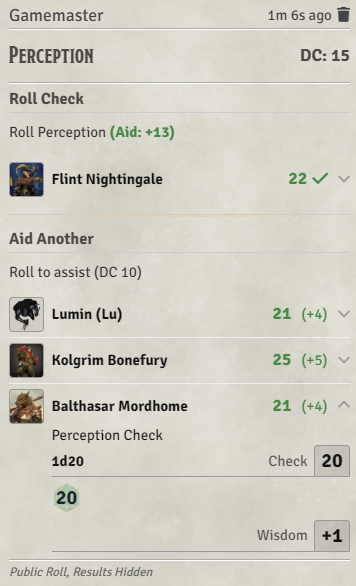
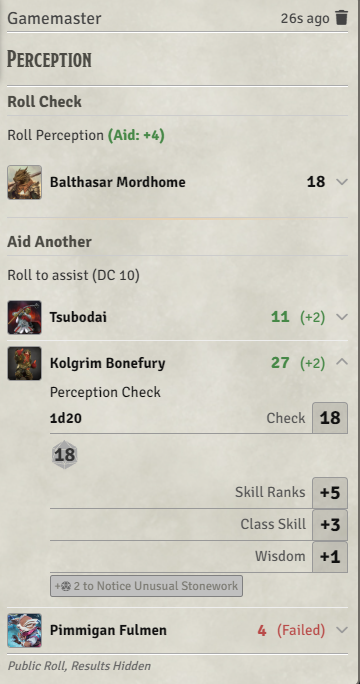
readme update Fixed RAW aid another

diff --git a/README.md b/README.md
@@ -10,15 +10,12 @@ A Foundry VTT module for the PF1e system that lets the GM request rolls from pla
 - PF1e system v11.10+
 
 ## Features
-![Request window](assets/request-roll-window.png)
-
-![Chat Message](assets/request-roll-chat-message-blank.png)
-
-![Chat Message Filled](assets/request-roll-chat-message-completed.png)
 
 ### Roll Request Dialog
 
 A GM-only dialog accessed via the dice button in the token controls toolbar, or by calling `game.pf1RollRequests.requestRoll()` from a macro.
+
+![Request window](assets/request-roll-window.png)
 
 The dialog lets you select:
 
@@ -41,11 +38,13 @@ To hide a player-owned NPC you don't want prompted, **right-click its row** and 
 
 #### Quick Actions
 
-A **Quick Actions** category at the bottom of the options grid holds common, pre-configured rolls. Unlike the other categories, clicking a Quick Action **executes immediately** with its own baked-in settings — it ignores the left-hand panel and does not wait for the **Request Roll** button.
+An optional **Quick Actions** category at the bottom of the options grid holds common, pre-configured rolls. Unlike the other categories, clicking a Quick Action **executes immediately** with its own baked-in settings — it ignores the left-hand panel and does not wait for the **Request Roll** button. This category can be enabled or disabled in the mod settings.
 
 Available Quick Actions:
 
 - **Spot Checks** — prompts a Perception check from selected actors. Opens an actor picker (the same list as Prompt Actors, all selected by default), then posts a **public** request card whose roll totals are hidden from players (the GM sees them), with no DC and no Aid Another.
+
+Custom quick actions can be made via the mod API.
 
 #### Configuring Roll Options
 
@@ -56,13 +55,19 @@ Under **Settings → Module Settings → Configure Roll Options** you can show o
 
 ### Chat Cards
 
-**Single-check mode:** One player rolls the primary check. Other players can contribute Aid Another rolls (DC 10) that add +2 each to the primary roll's total. Results update in real time.
+![Chat Message](assets/request-roll-chat-message-blank.png) 
+
+![Chat Message Filled](assets/request-roll-chat-message-completed.png)
+
+**Single-check mode:** One player rolls the primary check. Other players can contribute Aid Another rolls (DC 10) that add +2 each to the primary roll's total, if enabled. Results update in real time.
 
 **Multi-check mode:** Any number of players can each roll independently. Each result is appended to the card as it comes in.
 
 The GM always sees the DC and pass/fail results. Players see them only if the GM enabled visibility for that request.
 
 ### Auto Save Requests
+
+![Chat Message Filled](assets/auto-save-request.png)
 
 When a PF1e attack action that includes a saving throw is posted to chat, the module automatically converts it into an embedded targeted roll-request card. The original spell/attack card header and footer (damage buttons, effect notes, etc.) are preserved around the roll-request section.
 
@@ -86,7 +91,7 @@ This feature is enabled by default and can be toggled in **Settings → Module S
 
 ### API
 
-Other modules can create roll requests programmatically:
+Other modules or scripts can create roll requests programmatically:
 
 ```js
 // Basic request
